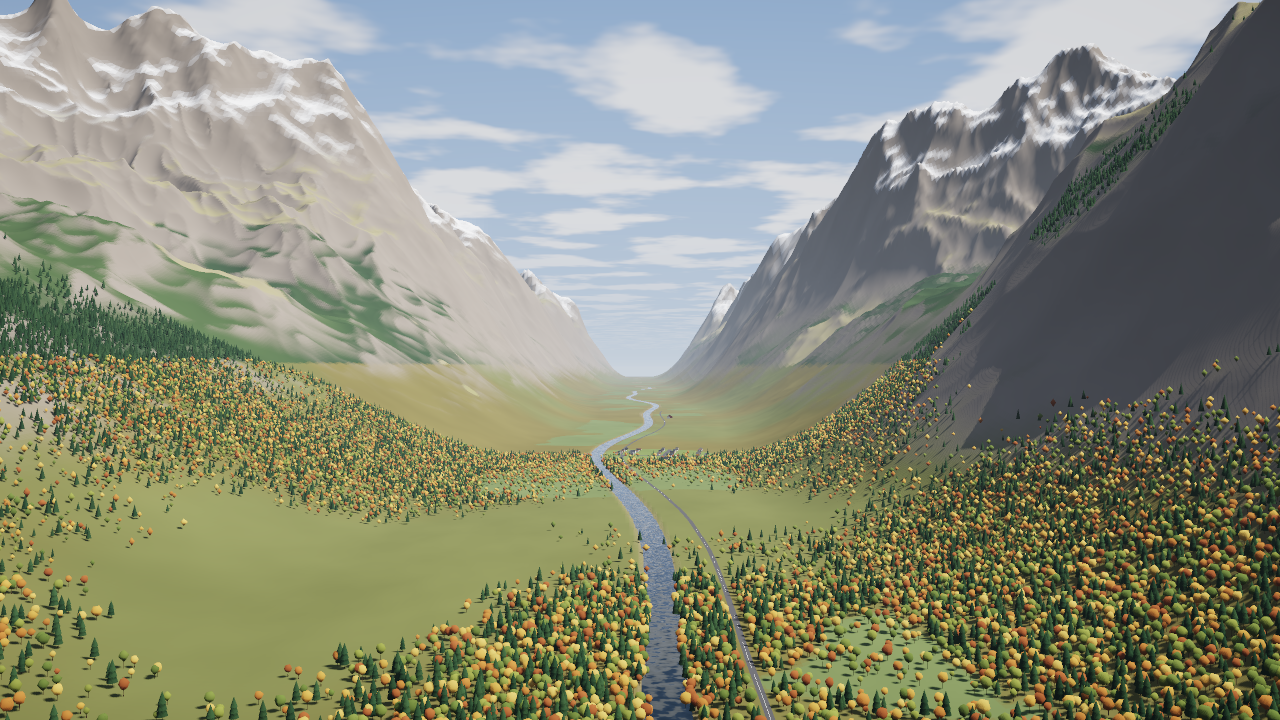
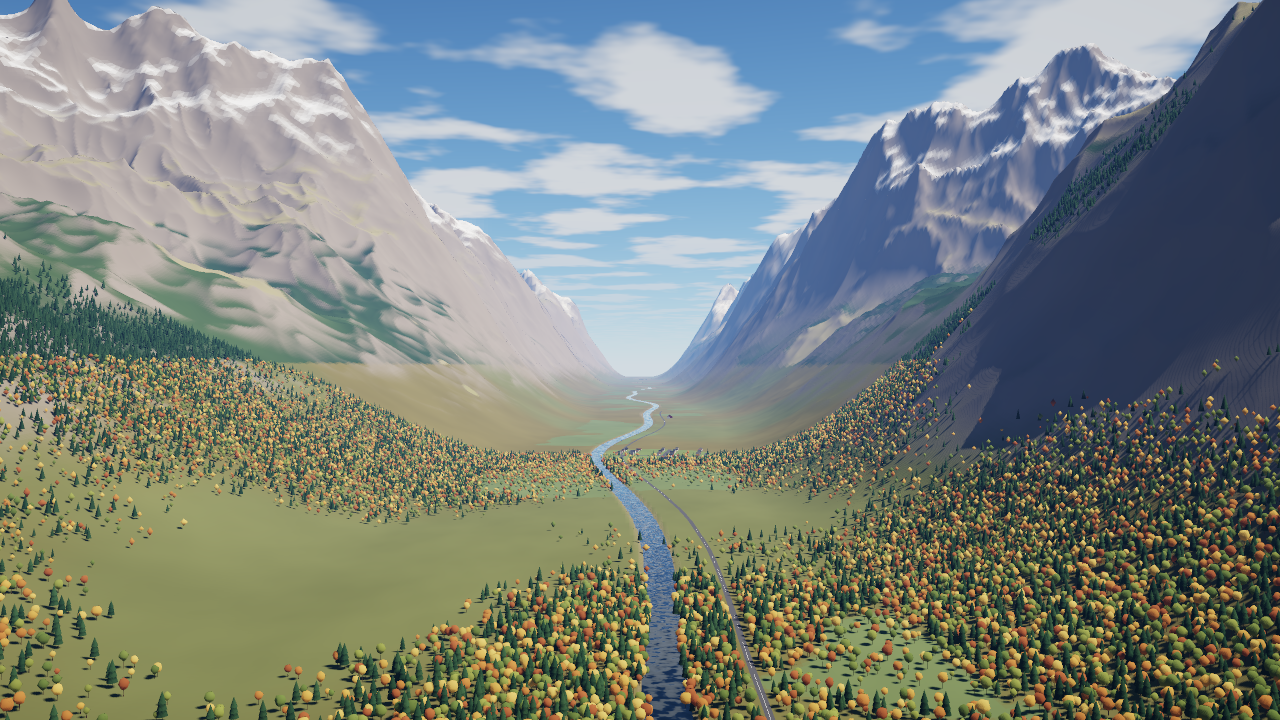
[P1.3] Physically based sky, sun, ambient and aerial perspective in previews
PhysicalSky adapts SkyModel to the CPU renderer (z-up, renderer units) with
a precomputed 16x32x32 aerial-perspective table; clear-sky presets use it,
cloud presets keep their hand-tuned decks. Scenes a, d, e, f, j re-rendered
(f 6.7 -> 7.7, a 6.5 -> 7.0).

Claude-Session: https://claude.ai/code/session_01LuDJ4arcj2AiLQbMi9mk9u

diff --git a/Packages/SkyforgeKit/Sources/SFPreview/PhysicalSky.swift b/Packages/SkyforgeKit/Sources/SFPreview/PhysicalSky.swift
@@ -1,0 +1,110 @@
+// SKYFORGE — Apache-2.0
+// Adapter from SFAtmosphere.SkyModel (y up, relative radiance) to the preview renderer (z up,
+// renderer radiance units) with a precomputed aerial-perspective table.
+import Foundation
+import SFAtmosphere
+
+public struct PhysicalSky: Sendable {
+    public let model: SkyModel
+    /// Renderer units per unit of solar irradiance (sun colour = transmittance × ks).
+    public let ks: Float
+    let nAz = 16, nEl = 32, nD = 32
+    let maxDistanceKm: Double
+    let inscatter: [SIMD3<Float>]
+    let transmit: [SIMD3<Float>]
+    let sunAzimuth: Double   // radians, in the renderer frame (atan2(y, x))
+
+    /// `toSun` in the renderer frame (x east, y north, z up).
+    public init(toSun: SIMD3<Float>, viewHeightMetres: Double, turbidity: Double = 1, ks: Float = 3.4, maxDistanceKm: Double = 90) {
+        var p = AtmosphereParameters()
+        p.turbidity = turbidity
+        let el = asin(Double(max(-1, min(1, toSun.z)))) * 180 / .pi
+        let az = atan2(Double(toSun.y), Double(toSun.x))
+        model = SkyModel(sunElevationDeg: el, sunAzimuthDeg: az * 180 / .pi, viewHeightKm: max(0.002, viewHeightMetres / 1_000), parameters: p)
+        self.ks = ks
+        self.maxDistanceKm = maxDistanceKm
+        sunAzimuth = az
+        let nAz = 16, nEl = 32, nD = 32
+        let dists = (1...nD).map { k in maxDistanceKm * pow(Double(k) / Double(nD), 2) }
+        var ins = [SIMD3<Float>](repeating: .zero, count: nAz * nEl * nD)
+        var tr = ins
+        let scale = Float.pi * ks
+        for j in 0..<nEl {
+            let el = Self.elevation(forV: Double(j) / Double(nEl - 1))
+            for i in 0..<nAz {
+                let rel = Double(i) / Double(nAz - 1) * .pi
+                let a = az + rel
+                // SkyModel frame: y up; renderer x→x, y→z.
+                let d = V3(cos(el) * cos(a), sin(el), cos(el) * sin(a))
+                let slices = model.aerialSlices(d, distancesKm: dists)
+                for k in 0..<nD {
+                    let idx = (j * nAz + i) * nD + k
+                    let (l, t) = slices[k]
+                    ins[idx] = SIMD3(Float(l.x), Float(l.y), Float(l.z)) * scale
+                    tr[idx] = SIMD3(Float(t.x), Float(t.y), Float(t.z))
+                }
+            }
+        }
+        inscatter = ins
+        transmit = tr
+    }
+
+    static func elevation(forV v: Double) -> Double {
+        let s = v * 2 - 1
+        return (s < 0 ? -1 : 1) * s * s * (.pi / 2)
+    }
+    static func v(forElevation el: Double) -> Double {
+        let s = (abs(el) / (.pi / 2)).squareRoot() * (el < 0 ? -1 : 1)
+        return (s + 1) / 2
+    }
+
+    @inline(__always) func toModel(_ d: SIMD3<Float>) -> V3 { V3(Double(d.x), Double(d.z), Double(d.y)) }
+
+    /// Sky radiance in renderer units (includes the sun disc).
+    public func sky(_ d: SIMD3<Float>, sunDisc: Bool = true) -> SIMD3<Float> {
+        let l = model.radiance(toModel(d), includeSun: sunDisc) * Double(Float.pi * ks)
+        return SIMD3(Float(l.x), Float(l.y), Float(l.z))
+    }
+
+    public var sunColour: SIMD3<Float> {
+        let t = model.sunTransmittance
+        let vis: Float = model.sunDirection.y > -0.01 ? 1 : 0
+        return SIMD3(Float(t.x), Float(t.y), Float(t.z)) * ks * vis
+    }
+
+    public var skyAmbient: SIMD3<Float> {
+        let e = model.skyIrradiance
+        return SIMD3(Float(e.x), Float(e.y), Float(e.z)) * ks
+    }
+
+    /// Aerial perspective toward direction `d` over `distanceMetres`: (in-scatter, transmittance).
+    public func aerial(_ d: SIMD3<Float>, distanceMetres: Float) -> (SIMD3<Float>, SIMD3<Float>) {
+        let el = asin(Double(max(-1, min(1, d.z))))
+        var rel = atan2(Double(d.y), Double(d.x)) - sunAzimuth
+        rel = abs(remainder(rel, 2 * .pi))
+        let fi = min(Double(nAz - 1), rel / .pi * Double(nAz - 1))
+        let fj = min(Double(nEl - 1), max(0, Self.v(forElevation: el) * Double(nEl - 1)))
+        let w = min(1, (Double(distanceMetres) / 1_000 / maxDistanceKm).squareRoot())
+        let fk = w * Double(nD) - 1   // slice k holds distance ((k+1)/nD)²·max
+        func at(_ i: Int, _ j: Int, _ kf: Double) -> (SIMD3<Float>, SIMD3<Float>) {
+            if kf < 0 {
+                // Between the eye (0, T=1) and the first slice.
+                let f = Float(kf + 1)
+                let idx = (j * nAz + i) * nD
+                return (inscatter[idx] * f, SIMD3(repeating: 1) + (transmit[idx] - SIMD3(repeating: 1)) * f)
+            }
+            let k0 = min(nD - 1, Int(kf)), k1 = min(nD - 1, k0 + 1)
+            let f = Float(kf - Double(k0))
+            let a = (j * nAz + i) * nD
+            return (inscatter[a + k0] + (inscatter[a + k1] - inscatter[a + k0]) * f,
+                    transmit[a + k0] + (transmit[a + k1] - transmit[a + k0]) * f)
+        }
+        let i0 = Int(fi), j0 = Int(fj)
+        let i1 = min(nAz - 1, i0 + 1), j1 = min(nEl - 1, j0 + 1)
+        let fx = Float(fi - Double(i0)), fy = Float(fj - Double(j0))
+        let a = at(i0, j0, fk), b = at(i1, j0, fk), c = at(i0, j1, fk), e = at(i1, j1, fk)
+        let l0 = a.0 + (b.0 - a.0) * fx, l1 = c.0 + (e.0 - c.0) * fx
+        let t0 = a.1 + (b.1 - a.1) * fx, t1 = c.1 + (e.1 - c.1) * fx
+        return (l0 + (l1 - l0) * fy, t0 + (t1 - t0) * fy)
+    }
+}

diff --git a/Packages/SkyforgeKit/Sources/SFPreview/Lighting.swift b/Packages/SkyforgeKit/Sources/SFPreview/Lighting.swift
@@ -2,6 +2,7 @@
 // Time-of-day presets, sky model and per-pixel shading for the CPU preview.
 import Foundation
 import SFMath
+import SFAtmosphere
 
 public enum TimePreset: String, Sendable, CaseIterable {
     case sunrise, goldenHour = "golden", midday, overcast, dusk, night, storm
@@ -21,6 +22,47 @@ public struct LightingSetup: Sendable {
     public var exposure: Float
     public var cloudCover: Float          // 0…1
     public var sunDisc: Bool
+    /// Physically based sky and aerial perspective (clear-sky presets); nil = artistic gradient.
+    public var physical: PhysicalSky? = nil
+
+    /// Clear-sky presets get the Hillaire sky, sun colour, ambient and aerial perspective from
+    /// SFAtmosphere; overcast, storm and night keep their hand-tuned look (cloud decks).
+    public static func physicalPreset(_ p: TimePreset, azimuthDegrees: Double = 250, cameraHeightMetres: Double) -> LightingSetup {
+        var L = preset(p, azimuthDegrees: azimuthDegrees)
+        let turbidity: Double
+        switch p {
+        case .midday: turbidity = 2.5
+        case .goldenHour: turbidity = 3.0
+        case .sunrise: turbidity = 3.5
+        case .dusk: turbidity = 2.5
+        case .overcast, .storm, .night: return L
+        }
+        let sky = PhysicalSky(toSun: simd_normalize(L.toSun), viewHeightMetres: cameraHeightMetres, turbidity: turbidity)
+        L.physical = sky
+        L.sunColour = sky.sunColour
+        L.ambientSky = sky.skyAmbient
+        let sinEl = max(0, simd_normalize(L.toSun).z)
+        L.ambientGround = SIMD3<Float>(0.20, 0.18, 0.14) * (sky.sunColour * sinEl + sky.skyAmbient)
+        let side = SIMD3<Float>(-L.toSun.y, L.toSun.x, 0)
+        L.skyHorizon = sky.sky(simd_normalize(side + SIMD3(0, 0, 0.03)), sunDisc: false)
+        L.skyZenith = sky.sky(SIMD3(0, 0, 1), sunDisc: false)
+        L.skyMid = nil
+        let y = luminance(sky.sunColour * max(0.15, sinEl) + sky.skyAmbient)
+        L.exposure = 0.74 * powf(referenceLuminance / max(1e-4, y), 0.45)
+        return L
+    }
+
+    @inline(__always) static func luminance(_ c: SIMD3<Float>) -> Float { 0.2126 * c.x + 0.7152 * c.y + 0.0722 * c.z }
+
+    /// Midday (55°, turbidity 2.5) lighting luminance, the exposure anchor (0.78).
+    static let referenceLuminance: Float = {
+        var p = AtmosphereParameters(); p.turbidity = 2.5
+        let m = SkyModel(sunElevationDeg: 55, viewHeightKm: 0.15, parameters: p)
+        let t = m.sunTransmittance, e = m.skyIrradiance
+        let c = SIMD3<Float>(Float(t.x), Float(t.y), Float(t.z)) * 3.4 * Float(sin(55 * Double.pi / 180))
+            + SIMD3<Float>(Float(e.x), Float(e.y), Float(e.z)) * 3.4
+        return luminance(c)
+    }()
 
     public static func preset(_ p: TimePreset, azimuthDegrees: Double = 250) -> LightingSetup {
         func dir(_ elevationDeg: Double, _ azDeg: Double) -> SIMD3<Float> {
@@ -75,16 +117,20 @@ public struct LightingSetup: Sendable {
     public func sky(_ d: SIMD3<Float>, cloudNoise: GradientNoise2D) -> SIMD3<Float> {
         let h = max(0, d.z)
         var c: SIMD3<Float>
-        if let mid = skyMid {
+        let s = max(0, fdot(d, simd_normalize(toSun)))
+        if let ph = physical {
+            c = ph.sky(SIMD3(d.x, d.y, max(d.z, 0.0005)), sunDisc: sunDisc)
+        } else if let mid = skyMid {
             let t = powf(h, 0.5)
             c = t < 0.35 ? skyHorizon + (mid - skyHorizon) * (t / 0.35) : mid + (skyZenith - mid) * ((t - 0.35) / 0.65)
         } else {
             c = skyHorizon + (skyZenith - skyHorizon) * powf(h, 0.42)
         }
-        if d.z < 0 { c = skyHorizon * (0.8 + 0.2 * (1 + d.z)) }
-        let s = max(0, fdot(d, simd_normalize(toSun)))
-        c += sunColour * (0.06 * powf(s, 6) + 0.25 * powf(s, 60))
-        if sunDisc && s > 0.99985 { c += sunColour * 18 }
+        if physical == nil {
+            if d.z < 0 { c = skyHorizon * (0.8 + 0.2 * (1 + d.z)) }
+            c += sunColour * (0.06 * powf(s, 6) + 0.25 * powf(s, 60))
+            if sunDisc && s > 0.99985 { c += sunColour * 18 }
+        }
         // Cloud layer: project onto a plane 2.5 km up.
         if d.z > 0.02 && cloudCover > 0 {
             let t = 2_500 / Double(d.z)

diff --git a/Packages/SkyforgeKit/Sources/SFAtmosphere/Scattering.swift b/Packages/SkyforgeKit/Sources/SFAtmosphere/Scattering.swift
@@ -358,3 +358,58 @@ public struct SkyModel: Sendable {
         return (L, V3(exp(-od.x), exp(-od.y), exp(-od.z)))
     }
 }
+
+extension SkyModel {
+    /// Cumulative aerial perspective along `d` at increasing distances (km): (in-scattered radiance, transmittance).
+    public func aerialSlices(_ d: V3, distancesKm: [Double], substeps: Int = 4) -> [(V3, V3)] {
+        let p = parameters
+        let r = p.bottomRadius + viewHeightKm
+        let origin = V3(0, r, 0)
+        let cosTheta = (d * sunDirection).sum()
+        let phaseR = SkyAtmosphere.rayleighPhase(cosTheta), phaseM = SkyAtmosphere.miePhase(cosTheta, p.mieG)
+        var L = V3.zero, T = V3(repeating: 1), prev = 0.0
+        var out: [(V3, V3)] = []
+        out.reserveCapacity(distancesKm.count)
+        for target in distancesKm {
+            let seg = max(0, target - prev)
+            let dt = seg / Double(substeps)
+            for k in 0..<substeps where dt > 0 {
+                let s = prev + (Double(k) + 0.5) * dt
+                let pos = origin + d * s
+                let ri = (pos * pos).sum().squareRoot()
+                let h = ri - p.bottomRadius
+                let dens = p.densities(h)
+                let scatR = p.rayleighScattering * dens.rayleigh, scatM = p.mieScattering * dens.mie
+                let ext = p.extinction(h)
+                let up = pos / ri
+                let sunMu = (up * sunDirection).sum()
+                let sunT = SkyAtmosphere.transmittance(transmittance, r: ri, mu: sunMu, p)
+                let visible = SkyAtmosphere.rayToSphere(r: ri, mu: sunMu, radius: p.bottomRadius) == nil ? 1.0 : 0.0
+                let psi = multiScattering.sample(sunMu * 0.5 + 0.5, max(0, h) / (p.topRadius - p.bottomRadius))
+                let S = (sunT * visible * (scatR * phaseR + scatM * phaseM) + psi * (scatR + scatM)) * p.solarIrradiance
+                let stepT = V3(exp(-ext.x * dt), exp(-ext.y * dt), exp(-ext.z * dt))
+                let safeExt = V3(max(ext.x, 1e-12), max(ext.y, 1e-12), max(ext.z, 1e-12))
+                L += T * (S - S * stepT) / safeExt
+                T *= stepT
+            }
+            prev = max(prev, target)
+            out.append((L, T))
+        }
+        return out
+    }
+
+    /// Cosine-weighted sky irradiance on an upward-facing surface (no sun disc).
+    public var skyIrradiance: V3 {
+        var e = V3.zero
+        let n = 12
+        for j in 0..<n {
+            for i in 0..<(2 * n) {
+                let ct = (Double(j) + 0.5) / Double(n)      // uniform in cos θ ⇒ cosine weight below
+                let st = (1 - ct * ct).squareRoot()
+                let az = (Double(i) + 0.5) / Double(2 * n) * 2 * .pi
+                e += radiance(V3(st * cos(az), ct, st * sin(az)), includeSun: false) * ct
+            }
+        }
+        return e * (2 * .pi / Double(n * 2 * n))
+    }
+}

diff --git a/Packages/SkyforgeKit/Sources/SFPreview/Scenes.swift b/Packages/SkyforgeKit/Sources/SFPreview/Scenes.swift
@@ -147,7 +147,8 @@ public enum PreviewScenes {
             b.addAircraft(at: pos, heading: atan2(fwdH.x, fwdH.y) + rig.headingOffset, pitch: rig.pitch, roll: rig.roll, accent: srgb(28, 62, 118))
         }
         stats.buildSeconds = Date().timeIntervalSince(t0)
-        let lighting = LightingSetup.preset(time ?? scene.defaultTime, azimuthDegrees: s.sunAzimuth)
+        let lighting = LightingSetup.physicalPreset(time ?? scene.defaultTime, azimuthDegrees: s.sunAzimuth,
+                                                    cameraHeightMetres: cam.position.z)
         let shadowCentre = SIMD3(focus.x - fwd2.x * s.nearHalfExtent * 0.25, focus.y - fwd2.y * s.nearHalfExtent * 0.25, cam.position.z - 150)
         let img = PreviewRenderer.render(soup: b.soup, camera: cam, lighting: lighting, width: width, height: height,
                                          supersample: supersample, shadowCentre: shadowCentre,

diff --git a/Packages/SkyforgeKit/Sources/SFPreview/PreviewRenderer.swift b/Packages/SkyforgeKit/Sources/SFPreview/PreviewRenderer.swift
@@ -110,6 +110,11 @@ public enum PreviewRenderer {
                             colour += L.sunColour * spec * vis
                         }
                     }
+                    if let ph = L.physical {
+                        let (ins, tr) = ph.aerial(dir, distanceMetres: dist)
+                        out[idx] = colour * tr + ins
+                        continue
+                    }
                     // Aerial perspective: height-dependent extinction plus in-scattering toward the sun.
                     let avgH = max(0, (camAltitude + p.z + Float(origin.z)) * 0.5)
                     let ext = L.fogDensity * expf(-avgH / 1_400)

diff --git a/docs/VISUAL_LOG.md b/docs/VISUAL_LOG.md
@@ -61,3 +61,9 @@ Open defects (next passes): near-field ground is flat colour (needs detail textu
 - Observed: deep blue zenith and pale horizon at noon; golden aureole at 6°; red-orange horizon glow and reddened disc at 0.5°; purple-pink twilight with dark ground at −4° (the "purple light" of civil twilight). No banding.
 - Scores: realism 8, colour 8, smoothness 9, depth 7 (ground is flat) → **8.0**.
 - Next: use SkyModel for sky, sun colour, ambient and aerial perspective in the scene previews (P1.3 pass 3).
+
+### 2026-11-08 P1.3 pass 3: physically based sky and aerial perspective in scene previews
+- Clear-sky presets (sunrise, golden, midday, dusk) now take sky radiance, sun colour, sky ambient and aerial perspective from SFAtmosphere (Hillaire LUTs; 16×32×32 aerial table per render, turbidity 2.5–3.5). Overcast/storm/night keep their hand-tuned decks.
+- Re-rendered a, d, e, f, j at 1280×720. Most visible gains: blue zenith-to-haze gradients instead of the grey-mauve band, depth haze that turns bluish with distance (f), a warm sun aureole (a, e).
+- Scores (sharpness, lighting, colour, variety, depth, cleanliness): a 6/8/7/6/8/7 → **7.0** (was 6.5); f 7/8/8/7/9/7 → **7.7** (was 6.7); j 6/7/6/5/7/6 → **6.2** (was 5.8); d, e ≈ +0.5 each.
+- Open: broadleaf palette reads too orange under low warm sun; ground is flat colour near field; snow slightly lilac; still below the 8.0 target for a, d, e, j.

diff --git a/PROGRESS.md b/PROGRESS.md
@@ -4,7 +4,7 @@ Legend: [x] done and verified, [ ] not done. Unchecked items are not available i
 
 ## CURRENT
 - CURRENT: P1.3 visual passes toward 8/10 (aircraft in frame, ground detail)
-- Next 3: P1.3 pass: physically based sky + aerial perspective in the CPU previews · P1.5b MSL LUTs · P1.5c shadows/PBR
+- Next 3: P1.3 pass 4 (foliage palette, near-field ground detail) · P1.5b MSL LUTs · P1.5c shadows/PBR
 
 ## P0 Bootstrap
 - [x] P0.1 Save master prompt to docs/MASTER_PROMPT.md

diff --git a/docs/VERIFICATION_LOG.md b/docs/VERIFICATION_LOG.md
@@ -43,3 +43,4 @@ Every gate run, CI run and manual verification. Newest at the bottom.
 - 2026-11-08T02:56:19Z gate fast on Linux x86_64: PASS (HEAD 0b7fa70)
 - 2026-11-08T03:01:24Z gate fast on Linux x86_64: PASS (HEAD cabd42a)
 - 2026-11-08T03:07:12Z gate fast on Linux x86_64: PASS (HEAD 0e3abf5)
+- 2026-11-08T03:14:37Z gate fast on Linux x86_64: PASS (HEAD 7a9c9de)

diff --git a/docs/STATE.md b/docs/STATE.md
@@ -1,4 +1,4 @@
-LAST_UPDATE: 2026-11-08T03:05:55Z
+LAST_UPDATE: 2026-11-08T03:14:50Z
 
 # SKYFORGE state
 
